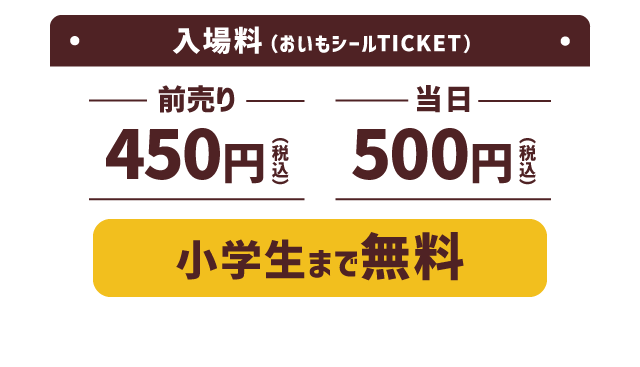
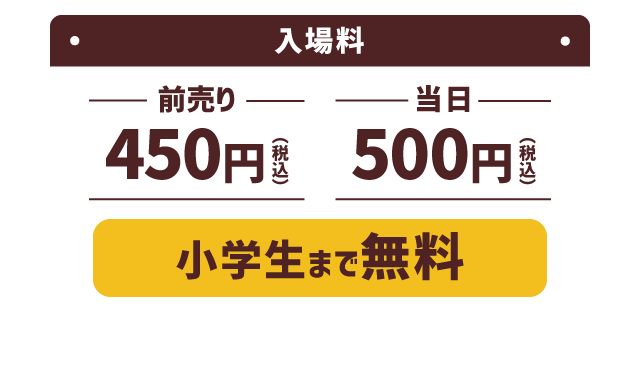
fix: 入場料の画像から「(おいもシールTICKET)」を外す
シールから入場バンドに変わり、帯の見出しが誤りになったため。

- 括弧ごと外して「入場料」だけにし、帯の中央にそろえ直す。
  「入場料」は元の画素をそのまま移しているので描き直しによる劣化はない
  (元画像の書体は Corporate Logo Bold より太く、手元のフォントでは
   再現できない。「(入場バンド)」と描き直す案も試したが、19px では
   「場」の画が潰れて元の品質に届かなかった)
- 帯より下の 367x300 は 1 画素も変えていない。左右の丸い点もそのまま
- 入場バンドであることは画像ではなく文章で伝える。画像の下に注記を追加し、
  alt からもシールの記述を外した
- 手順は scripts/edit-fee-image.py に残した

Claude-Session: https://claude.ai/code/session_01ULFKDbeQCJCwMoMbPWAxdD

Changed region(s): [[0.25, 0.0599, 0.75, 0.1499]]

diff --git a/site/index.html b/site/index.html
@@ -148,7 +148,8 @@
   <p class="oimo-info__place">富士中央公園 イベント広場</p>
   <p class="oimo-info__sub">駐車場 無料</p>
 
-  <img class="oimo-info__fee" src="./wp-content/uploads/2026/09/入場料.png" width="640" height="367" alt="入場料 おいもシールTICKET 前売り450円（税込） 当日500円（税込） 小学生まで無料" loading="lazy" decoding="async" />
+  <img class="oimo-info__fee" src="./wp-content/uploads/2026/09/入場料.png" width="640" height="367" alt="入場料 前売り450円（税込） 当日500円（税込） 小学生まで無料" loading="lazy" decoding="async" />
+  <p class="oimo-info__note oimo-info__note--fee">※ ご入場の際は、前売り・当日券ともに入場バンドをお渡しします（曜日ごとに色が異なります）</p>
 </div>
   </div>
 </section>

diff --git a/site/custom.css b/site/custom.css
@@ -126,6 +126,12 @@
   margin: 0 auto;
 }
 
+/* 入場バンドの注記。画像のすぐ下に置くので、上の余白は詰める */
+.oimo-info__note--fee {
+  max-width: 640px;
+  margin: 0.9em auto 0;
+}
+
 /* ---------------------------------------------------------------------------
    「近日公開」の注記
    富士市開催 (2026年10月) の情報がまだ確定していないセクションに添える。

diff --git a/scripts/edit-fee-image.py b/scripts/edit-fee-image.py
@@ -1,0 +1,38 @@
+#!/usr/bin/env python3
+"""入場料の画像から、実態に合わなくなった「(おいもシールTICKET)」を外す。
+
+    python3 scripts/edit-fee-image.py
+
+入場料は 2026 年からシールではなく入場バンドに変わった。帯の見出しにある
+「入場料 (おいもシールTICKET)」の括弧の中が誤りになったため、括弧ごと外して
+「入場料」だけにし、帯の中央にそろえ直す。
+
+「入場料」は元の画像の画素をそのまま移すだけで、文字を描き直していない
+(元画像の書体は Corporate Logo より太く、手元のフォントでは再現できないため)。
+帯は単色 (#4f2224) なので、消した跡は同じ色で塗れば継ぎ目は出ない。
+
+入場バンドであることは、画像ではなく index.html の文章で伝えている。
+"""
+from PIL import Image, ImageDraw
+
+SRC = 'site/wp-content/uploads/2026/09/入場料.png'
+BROWN = (79, 34, 36, 255)
+
+# 元画像で測った値
+BAR_CENTER_X = 319.5      # 帯 (x 50-589) の中央
+KANJI_BOX = (171, 25, 264, 56)   # 「入場料」を余白ごと切り取る範囲
+KANJI_INK = (173, 27, 262, 54)   # その中のインクの範囲 (89 x 27)
+
+im = Image.open(SRC).convert('RGBA')
+kanji = im.crop(KANJI_BOX)
+ink_w = KANJI_INK[2] - KANJI_INK[0]
+dx = KANJI_INK[0] - KANJI_BOX[0]
+dy = KANJI_INK[1] - KANJI_BOX[1]
+
+# 帯の中の文字を消す (左右の丸い点 x70-78 / x561-569 には触れない)
+ImageDraw.Draw(im).rectangle([150, 20, 500, 60], fill=BROWN)
+
+x0 = round(BAR_CENTER_X - ink_w / 2)
+im.paste(kanji, (x0 - dx, KANJI_INK[1] - dy), kanji)
+im.save(SRC, optimize=True)
+print(f'{SRC}: 「入場料」を x {x0}-{x0 + ink_w - 1} に置き直しました (中央 {x0 + ink_w / 2})')
